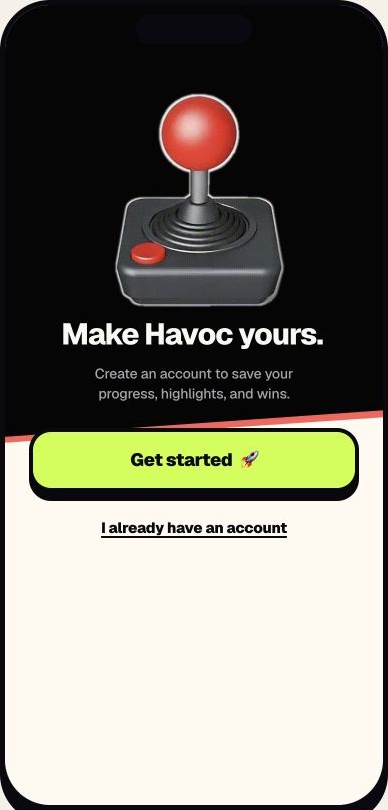
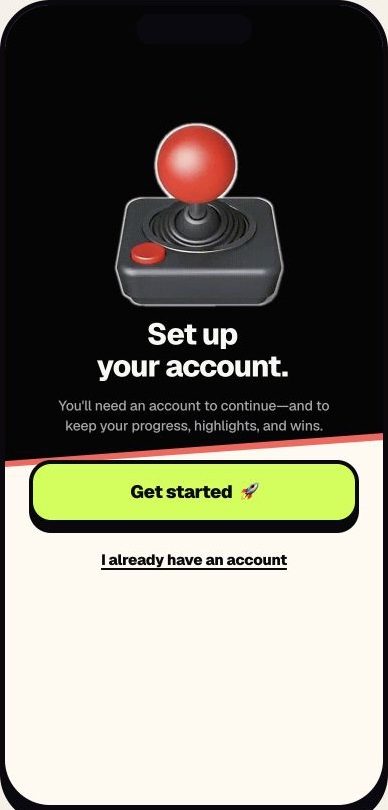
copy(onboarding): clarify required account setup

Changed region(s): [[0.0, 0.4012, 0.9897, 0.7099], [0.3711, 0.0926, 0.6186, 0.3086]]

diff --git a/app/page.tsx b/app/page.tsx
@@ -134,8 +134,8 @@ function WelcomeScreen({ next, onLogin }: { next: () => void; onLogin: () => voi
       />
     </div>
     <div className="welcome-copy">
-      <h2>Make Havoc yours.</h2>
-      <p>Create an account to save your progress, highlights, and wins.</p>
+      <h2>Set up your account.</h2>
+      <p>You&apos;ll need an account to continue—and to keep your progress, highlights, and wins.</p>
     </div>
     <div className="welcome-actions">
       <button className="welcome-primary" onClick={next}>
